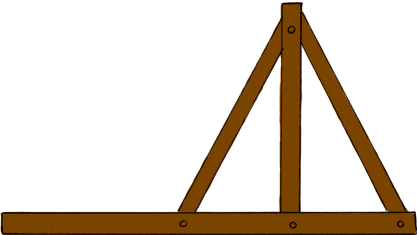
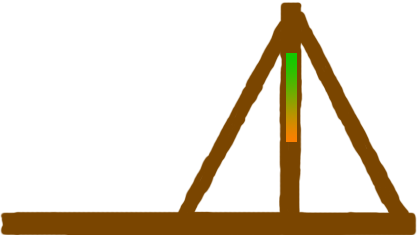
implemented slider for power of catapult

diff --git a/src/Catapult.java b/src/Catapult.java
@@ -15,8 +15,10 @@ public class Catapult extends JPanel implements ActionListener, MouseListener{
 	private BufferedImage catapultArm;
 	private BufferedImage emptyArm;
 	private BufferedImage gear;
+	private BufferedImage slider;
 	private BufferedImage catapultBottom;
 	
+	private int sliderPos;
 	private double direction;
 	private double releaseAngle; //angle of arm (orthogonal to velocity)
 	private int magnitude;
@@ -40,6 +42,7 @@ public class Catapult extends JPanel implements ActionListener, MouseListener{
 	private boolean launching;
 	private boolean adjustGear;
 	private boolean adjustArm;
+	private boolean adjustSlider;
 	
 	private final String filePath = "Pics\\Catapult\\";
 	
@@ -51,6 +54,7 @@ public class Catapult extends JPanel implements ActionListener, MouseListener{
 		setMinimumSize(new Dimension(200,100));
 		setSize(new Dimension(350, 200));
 		cupLoc = new Point(0,0);
+		sliderPos = 0;
 		
 		try {
 			catapultBody = ImageIO.read(new File(filePath + "Catapult.png"));
@@ -58,12 +62,14 @@ public class Catapult extends JPanel implements ActionListener, MouseListener{
 			catapultArm = emptyArm;
 			gear = ImageIO.read(new File(filePath + "CatapultGear.png"));
 			catapultBottom = ImageIO.read(new File(filePath + "CatapultBottom.png"));
+			slider = ImageIO.read(new File(filePath + "Slider.png"));
 		} catch (IOException e) {}
 		releaseAngle = Math.PI/4;
 		direction = releaseAngle;
 		
 		adjustGear = false;
 		adjustArm = false;
+		adjustSlider = false;
 		
 		runTime = new Timer(10, this);
 		
@@ -107,6 +113,7 @@ public class Catapult extends JPanel implements ActionListener, MouseListener{
 		releaseAngle = Math.PI/2;
 		direction = releaseAngle;
 		launching= true;
+		sliderPos = 0;
 		resize();
 		setCupLoc();
 		repaint();
@@ -151,6 +158,21 @@ public class Catapult extends JPanel implements ActionListener, MouseListener{
 			}
 		}
 		setCupLoc();
+	}
+	
+	private void calculatePower(){
+		double x;
+		double y;
+		
+		Point mouse = new Point(MouseInfo.getPointerInfo().getLocation());
+		mouse.translate(0, -(int)fulcrum.getY() - 124);
+		
+		sliderPos = (int) mouse.getY();
+		if(sliderPos>21){
+			sliderPos = 21;
+		}else if(sliderPos<-25){
+			sliderPos = -25;
+		}
 	}
 	
 	private void setCupLoc(){
@@ -220,6 +242,12 @@ public class Catapult extends JPanel implements ActionListener, MouseListener{
 		g2.drawImage(scaleImage(catapultBottom, catRatio), catapultXLoc, 
 				getHeight()-groundHeight-(int)(catapultBody.getHeight()*catRatio),new Color(0,0,0,0), null);
 		
+		//draw slider on catapult
+		g2.translate(0, sliderPos);
+		g2.drawImage(scaleImage(slider, catRatio), catapultXLoc, 
+				getHeight()-groundHeight-(int)(catapultBody.getHeight()*catRatio),new Color(0,0,0,0), null);
+		g2.translate(0, -sliderPos);
+		
 		//draw ground
 		g.setColor(game.getTheme().getGroundColor());
 		g.fill3DRect(0, getHeight() - groundHeight, getWidth()+1, getHeight()+1, false);
@@ -241,7 +269,12 @@ public class Catapult extends JPanel implements ActionListener, MouseListener{
 			Ellipse2D armBounds = new Ellipse2D.Double(cupLoc.getX() - width/2, cupLoc.getY()-width/2,
 					width, width);
 			
-			if(gearBounds.contains(mouse.getX(), mouse.getY())){
+			Rectangle sliderBounds = new Rectangle((int)(325*catRatio), (int)(160*catRatio), 
+					(int)(20*catRatio), (int)(100*catRatio));
+			
+			if(sliderBounds.contains(mouse.getX(), mouse.getY())){
+				adjustSlider = true;
+			}else if(gearBounds.contains(mouse.getX(), mouse.getY())){
 				adjustGear = true;
 			}else if(armBounds.contains(mouse.getX(), mouse.getY())){
 				adjustArm=true;
@@ -258,14 +291,21 @@ public class Catapult extends JPanel implements ActionListener, MouseListener{
 				animationTime.start();
 				launching = false;
 				adjustArm = false;
-			}if(adjustGear){
+			}else if(adjustGear){
 				adjustGear = false;
+			}else if(adjustSlider){
+				power = (30-sliderPos)*2;
+				adjustSlider =false;
 			}
 		}
 	}
 	
 	public void actionPerformed(ActionEvent e){
-		calculateAngle();
+		if(adjustSlider){
+			calculatePower();
+		}else{
+			calculateAngle();
+		}
 		repaint();
 	}
 }
